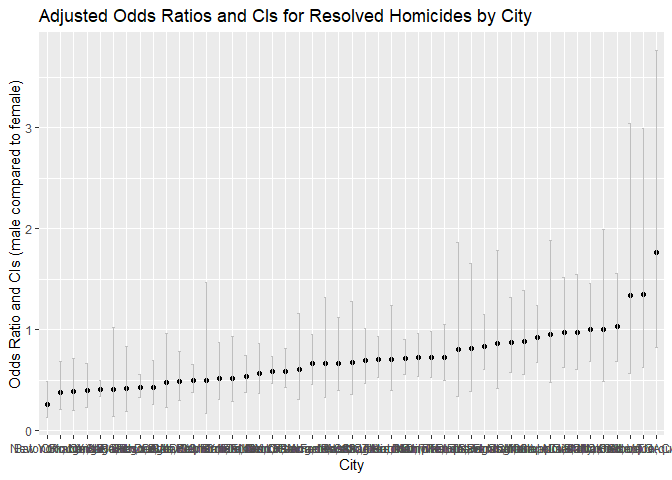
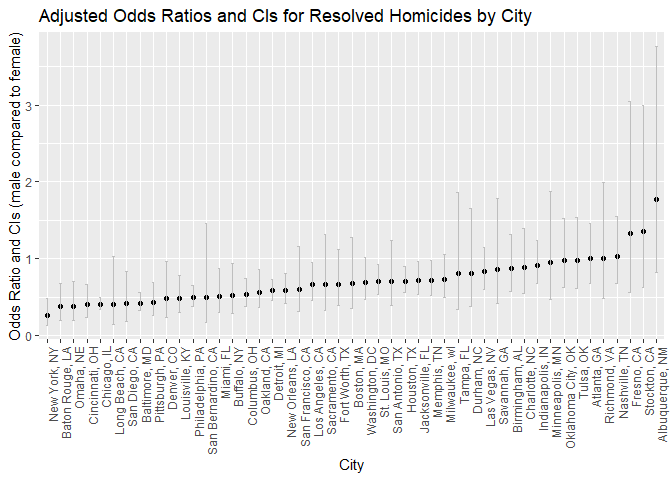
edited date, deleted summary for models to save space of knitted doc

diff --git a/p8105_hw6_zw2975.md b/p8105_hw6_zw2975.md
@@ -104,14 +104,14 @@ print(ci_r_squared)
 ```
 
     ##      2.5%     97.5% 
-    ## 0.8940552 0.9270389
+    ## 0.8938241 0.9273183
 
 ``` r
 print(ci_log_beta)
 ```
 
     ##     2.5%    97.5% 
-    ## 1.966522 2.059218
+    ## 1.965666 2.057098
 
 ## Problem 2
 
@@ -213,15 +213,171 @@ ggplot(city_results, aes(x = reorder(city_state, odds_ratio), y = odds_ratio)) +
     title = "Adjusted Odds Ratios and CIs for Resolved Homicides by City",
     y = "Odds Ratio and CIs (male compared to female)",
     x = "City"
-  ) 
+  ) +
+  theme(
+    axis.text.x = element_text(angle = 90, hjust = 1)) # Rotate city names to save space
 ```
 
 ![](p8105_hw6_zw2975_files/figure-gfm/plot%20city%20results-1.png)<!-- -->
 
 ###### Comment
 
+New York has the lowest odds ratio and also a relatively small range of
+CI for the odds ratio. It is also obvious that the CI increases in size
+as the odds ratio increases for most cities. The highest odds ratio of
+male vs. female resolved crime is from Albuquerque, NM. The highest odds
+ratio does not exceed 2 and most of the odds ratio lies between 0 and 1,
+which means that there are more resolved crime when victim’s sex is
+female for most cases.
+
 ## Problem 3
 
 ``` r
 bw = read.csv("./data/birthweight.csv")
 ```
+
+``` r
+# changed numbers to labelled entries
+bw = bw |>
+set_value_labels(
+  frace = c("White" = 1, "Black" = 2, "Asian" = 3, "Puerto Rican" = 4, "Other" = 8, "Unknown" = 9),
+  mrace = c("White" = 1, "Black" = 2, "Asian" = 3, "Puerto Rican" = 4, "Other" = 8, "Unknown" = 9))
+
+# changed labelled entries to factor
+bw = bw |>
+  mutate_if(is.labelled, to_factor)
+```
+
+``` r
+# Regression model
+bw_model = lm(bwt ~ gaweeks + delwt + smoken + babysex + mrace * frace, data = bw)
+
+summary(bw_model)
+```
+
+    ## 
+    ## Call:
+    ## lm(formula = bwt ~ gaweeks + delwt + smoken + babysex + mrace * 
+    ##     frace, data = bw)
+    ## 
+    ## Residuals:
+    ##      Min       1Q   Median       3Q      Max 
+    ## -1691.77  -259.21     4.06   270.49  1501.77 
+    ## 
+    ## Coefficients: (1 not defined because of singularities)
+    ##                                      Estimate Std. Error t value Pr(>|t|)    
+    ## (Intercept)                          423.9941    91.6925   4.624 3.87e-06 ***
+    ## gaweeks                               54.6678     2.0992  26.042  < 2e-16 ***
+    ## delwt                                  5.8988     0.2962  19.914  < 2e-16 ***
+    ## smoken                               -11.8244     0.9029 -13.095  < 2e-16 ***
+    ## babysex                              -90.1915    12.9283  -6.976 3.49e-12 ***
+    ## mraceBlack                          -276.4213   160.7053  -1.720   0.0855 .  
+    ## mraceAsian                          -362.2515   212.4741  -1.705   0.0883 .  
+    ## mracePuerto Rican                   -130.9048   113.8108  -1.150   0.2501    
+    ## fraceBlack                          -120.9991   106.5775  -1.135   0.2563    
+    ## fraceAsian                          -153.2831   150.3417  -1.020   0.3080    
+    ## fracePuerto Rican                   -195.1451   110.1275  -1.772   0.0765 .  
+    ## fraceOther                          -133.4604   134.5450  -0.992   0.3213    
+    ## mraceBlack:fraceBlack                100.1548   192.8250   0.519   0.6035    
+    ## mraceAsian:fraceBlack                435.1351   486.4242   0.895   0.3711    
+    ## mracePuerto Rican:fraceBlack          16.6713   263.1648   0.063   0.9495    
+    ## mraceBlack:fraceAsian                441.2955   478.0301   0.923   0.3560    
+    ## mraceAsian:fraceAsian                466.2440   269.5277   1.730   0.0837 .  
+    ## mracePuerto Rican:fraceAsian         104.9440   464.3978   0.226   0.8212    
+    ## mraceBlack:fracePuerto Rican         148.4038   245.7219   0.604   0.5459    
+    ## mraceAsian:fracePuerto Rican         929.6352   487.0814   1.909   0.0564 .  
+    ## mracePuerto Rican:fracePuerto Rican  187.5553   160.6133   1.168   0.2430    
+    ## mraceBlack:fraceOther                535.7351   322.5029   1.661   0.0967 .  
+    ## mraceAsian:fraceOther                466.1802   493.5156   0.945   0.3449    
+    ## mracePuerto Rican:fraceOther               NA         NA      NA       NA    
+    ## ---
+    ## Signif. codes:  0 '***' 0.001 '**' 0.01 '*' 0.05 '.' 0.1 ' ' 1
+    ## 
+    ## Residual standard error: 424.3 on 4319 degrees of freedom
+    ## Multiple R-squared:  0.317,  Adjusted R-squared:  0.3135 
+    ## F-statistic:  91.1 on 22 and 4319 DF,  p-value: < 2.2e-16
+
+``` r
+# Add predictions and residuals to the data
+bw = bw |>
+  add_predictions(bw_model, var = "fitted") |>
+  add_residuals(bw_model, var = "residuals")
+
+# Plot residuals against fitted values
+ggplot(bw, aes(x = fitted, y = residuals)) +
+  geom_point(alpha = 0.3) +
+  geom_hline(yintercept = 0, linetype = "dashed", color = "red") +
+  labs(
+    title = "Residuals vs. Fitted Values",
+    x = "Fitted Values",
+    y = "Residuals")
+```
+
+![](p8105_hw6_zw2975_files/figure-gfm/fitted%20vs.%20residuals-1.png)<!-- -->
+
+``` r
+model1 = lm(bwt ~ blength + gaweeks, data = bw)
+
+model2 = lm(bwt ~ bhead * blength * babysex, data = bw)
+```
+
+``` r
+cv_df <- crossv_mc(bw, n = 100, test = 0.2)
+
+# convert train and test sets to tibbles
+cv_df <- cv_df |> 
+  mutate(
+    train = map(train, as_tibble),
+    test = map(test, as_tibble))
+
+# fit models on training data
+cv_df <- cv_df |> 
+  mutate(
+    bw_mod = map(train, ~ lm(bwt ~ gaweeks + delwt + smoken + babysex + mrace, data = .x)),
+    m1_mod = map(train, ~ gam(bwt ~ s(blength) + s(gaweeks), data = .x)),
+    m2_mod = map(train, ~ gam(bwt ~ s(bhead, blength, babysex), data = .x)))
+
+# function to calculate RMSE
+rmse <- function(model, data) {
+  preds <- predict(model, newdata = data)
+  sqrt(mean((data$bwt - preds)^2))
+}
+
+# get RMSE for every model
+cv_df <- cv_df |> 
+  mutate(
+    rmse_bw = map2_dbl(bw_mod, test, ~ rmse(.x, .y)),
+    rmse_m1 = map2_dbl(m1_mod, test, ~ rmse(.x, .y)),
+    rmse_m2 = map2_dbl(m2_mod, test, ~ rmse(.x, .y))
+  )
+
+
+# summarize RMSE for every model
+rmse_summary <- cv_df |> 
+  summarise(
+    mean_rmse_bw = mean(rmse_bw),
+    mean_rmse_m1 = mean(rmse_m1),
+    mean_rmse_m2 = mean(rmse_m2),
+    sd_rmse_bw = sd(rmse_bw),
+    sd_rmse_m1 = sd(rmse_m1),
+    sd_rmse_m2 = sd(rmse_m2)
+  )
+
+print(rmse_summary)
+```
+
+    ## # A tibble: 1 × 6
+    ##   mean_rmse_bw mean_rmse_m1 mean_rmse_m2 sd_rmse_bw sd_rmse_m1 sd_rmse_m2
+    ##          <dbl>        <dbl>        <dbl>      <dbl>      <dbl>      <dbl>
+    ## 1         424.         324.         284.       9.46       11.7       6.79
+
+###### Comment
+
+The summarized RMSE has proven that Model 2, which uses head
+circumference, length, sex, and all interactions (including the
+three-way interaction), has the best fit on the data. The RMSE is the
+second lowest for Model 1, which uses length at birth and gestational
+age as predictors with only the main effects. My model, however, has the
+highest RMSE, which means it has the worst fit. It would probably be
+better to add more interaction terms to the model for a better fit over
+the data.
